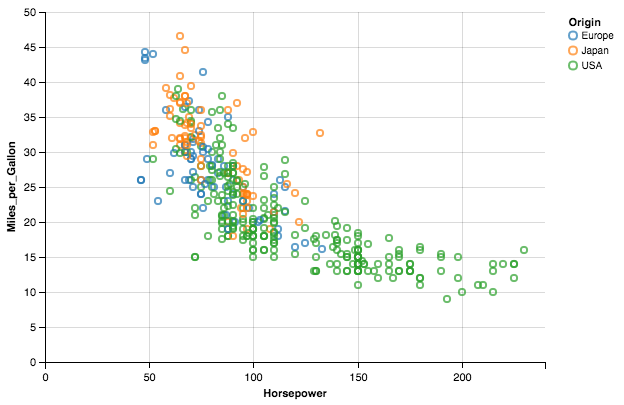
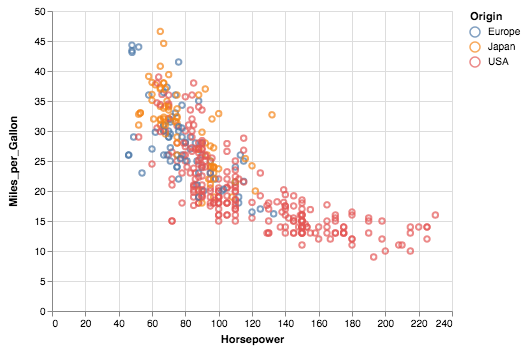
DOC: Update example and image shown in README.md

diff --git a/README.md b/README.md
@@ -1,5 +1,3 @@
-# Altair
-
 [![build status](http://img.shields.io/travis/altair-viz/altair/master.svg?style=flat)](https://travis-ci.org/altair-viz/altair)
 
 Altair is a declarative statistical visualization library for Python.
@@ -23,16 +21,14 @@ as well as Altair's [Tutorial Notebooks](http://github.com/altair-viz/altair_not
 
 ## Example
 
-Here is an example using Altair to quickly visualize and display a dataset with the native Vega-Lite renderer in the Jupyter Notebook:
+Here is an example using Altair to quickly visualize and display a dataset with the native Vega-Lite renderer in the JupyterLab:
 
 ```python
 import altair as alt
 
-# Uncomment/run this line to enable Altair in JupyterLab/nteract:
-# alt.enable_mime_rendering()
-
-# load data as a pandas DataFrame
-cars = alt.load_dataset('cars')
+# load a simple dataset as a pandas DataFrame
+from vega_datasets import data
+cars = data.cars()
 
 alt.Chart(cars).mark_point().encode(
     x='Horsepower',